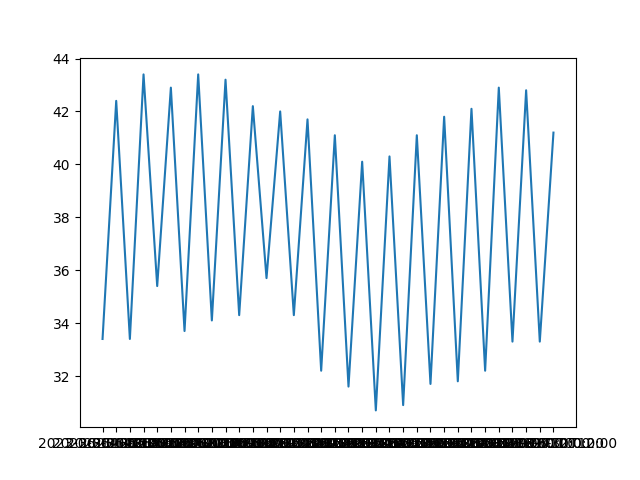
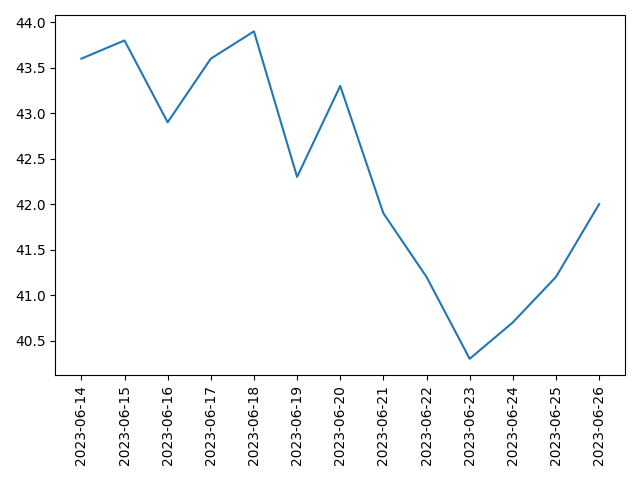
updated with error handlings

diff --git a/weatherAPI.py b/weatherAPI.py
@@ -57,7 +57,11 @@ class WeatherAPI:
 
         # Meteo API
         meteo_r = requests.get(url=self.METEO_API_URL, params={
-            "latitude": data['coord']['lat'], "longitude": data['coord']['lon'], "past_days": 10, "current_weather": "true", "hourly": "temperature_2m,relativehumidity_2m,windspeed_10m"})
+            "latitude": data['coord']['lat'], "longitude": data['coord']['lon'], "past_days": 10, "current_weather": "true", "daily": "temperature_2m_max", "timezone": "GMT", "forecast_days": 3})
+
+        if (r.status_code >= 400):
+            console.print_error(r.json()['message'])
+            return
 
         if (to_graph):
             self.generate_graph(dict(meteo_r.json()))
@@ -69,10 +73,11 @@ class WeatherAPI:
         args:
             meteo_json (dict): Meteo API JSON
         """
+        X = meteo_json['daily']['time']
+        Y = meteo_json['daily']['temperature_2m_max']
 
-        X = meteo_json['hourly']['time'][0:len(
-            meteo_json['hourly']['time'])-1:12]
-        Y = meteo_json['hourly']['temperature_2m'][0:len(
-            meteo_json['hourly']['time'])-1:12]
+        # Plotting the Graph
         plt.plot(X, Y)
+        plt.xticks(range(len(X)), X, rotation='vertical')
+        plt.tight_layout()
         plt.savefig('graph.png')

diff --git a/app.py b/app.py
@@ -9,19 +9,23 @@ console = Console()
 
 
 def main():
-    # Generate welcome message
-    console.generate_welcome_message()
+    try:
+        # Generate welcome message
+        console.generate_welcome_message()
 
-    # Retrieve arguments
-    args = parser.parse_args()
-    print(args)
+        # Retrieve arguments
+        args = parser.parse_args()
 
-    if (args.helpers == True):
-        console.generate_commands_table()
-        return
+        # Check if helpers is true
+        if (args.helpers == True):
+            console.generate_commands_table()
+            return
 
-    weather.get_weather_data(
-        PARAMS={"lat": float(args.lat), "lon": float(args.long), "q": args.city, "units": str(args.units) or "metrics", "lang": str(args.lang)}, to_csv=args.to_csv, to_graph=args.temp_graph)
+        weather.get_weather_data(
+            PARAMS={"lat": float(args.lat), "lon": float(args.long), "q": args.city, "units": str(args.units) or "metrics", "lang": str(args.lang)}, to_csv=args.to_csv, to_graph=args.temp_graph)
+
+    except Exception as e:
+        console.print_error(e)
 
 
 # Define init Main function
